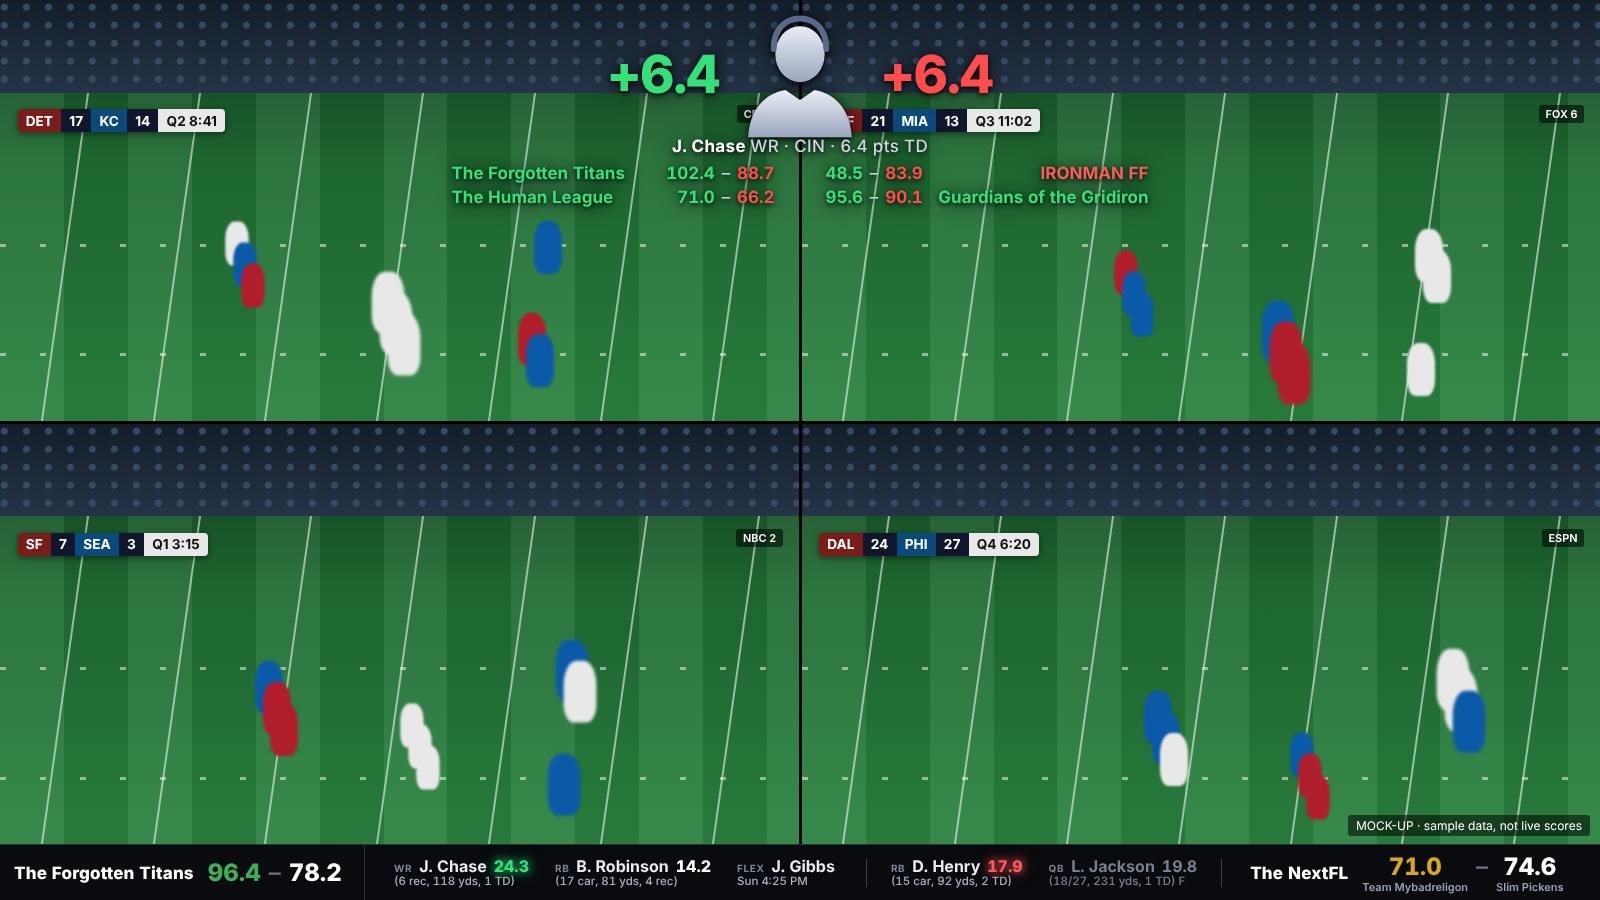
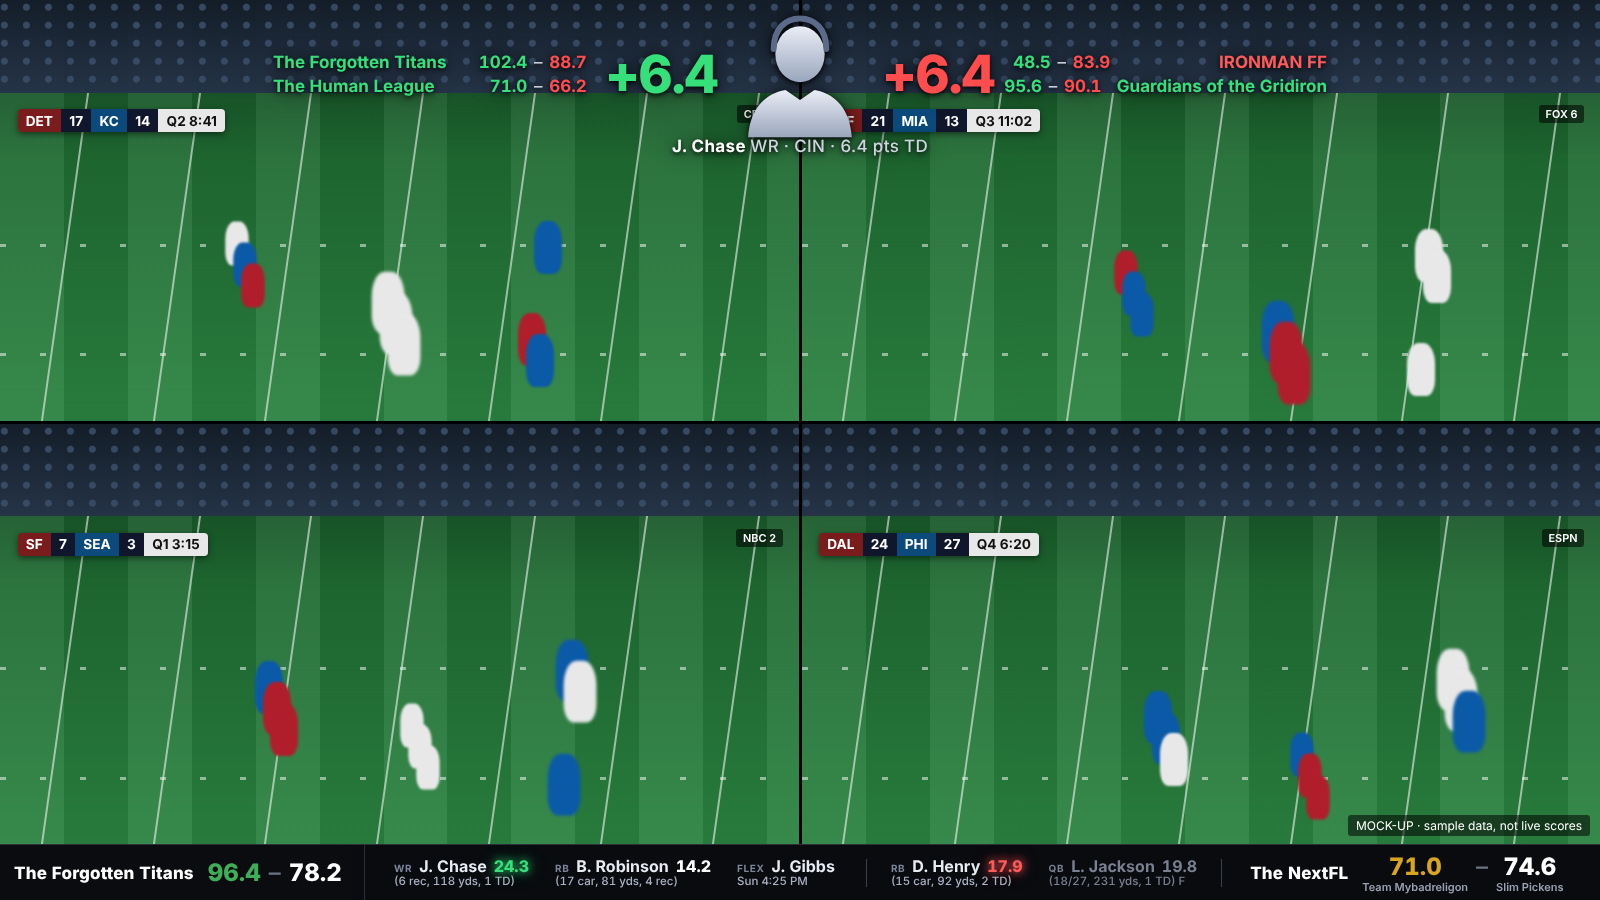
docs: pop-up league rows inline beside the headshot [skip ci]
Claude-Session: https://claude.ai/code/session_01Lsah77R46uPbi1vGqn8c5Q

Changed region(s): [[0.2812, 0.1867, 0.7188, 0.2489], [0.5625, 0.0622, 0.8438, 0.1244], [0.1562, 0.0622, 0.4375, 0.1244]]

diff --git a/docs/img/fantasy-ticker-mock.html b/docs/img/fantasy-ticker-mock.html
@@ -43,16 +43,17 @@ html,body{width:1600px;height:900px;background:#000;overflow:hidden;font-family:
 .nxt .sdn{font-size:24px;font-weight:800}.nxt .d{font-size:24px;color:#6b7385;font-weight:500}
 .fade{position:absolute;right:0;top:0;bottom:0;width:0}
 /* popup: no background, no outline - only a soft shadow so it stays readable on bright video */
-#pop{position:absolute;top:10px;left:50%;transform:translateX(-50%) scale(var(--ps,1));transform-origin:top center;width:820px;display:flex;flex-direction:column;align-items:center;
+#pop{position:absolute;top:10px;left:50%;transform:translateX(-50%) scale(var(--ps,1));transform-origin:top center;width:1240px;display:flex;flex-direction:column;align-items:center;
   filter:drop-shadow(0 2px 3px rgba(0,0,0,.85)) drop-shadow(0 0 10px rgba(0,0,0,.55))}
-#pop .top{display:flex;align-items:center;justify-content:center;gap:20px;width:100%}
-#pop .side{flex:1;font-size:62px;font-weight:800;letter-spacing:-.02em;font-variant-numeric:tabular-nums}
+#pop .top{display:flex;align-items:center;justify-content:center;gap:22px;width:100%}
+#pop .col{flex:1;min-width:0}
+#pop .side{flex:none;font-size:62px;font-weight:800;letter-spacing:-.02em;font-variant-numeric:tabular-nums}
 #pop .side.l{text-align:right;color:#35e07a}#pop .side.r{text-align:left;color:#ff4d4d}
 #pop .ph{width:150px;height:150px;flex:none}
 #pop .nm{margin-top:-2px;font-size:20px;font-weight:700;letter-spacing:.02em}#pop .nm span{color:#cfd4e0;font-weight:500}
 #pop .rows{margin-top:8px;width:100%;display:grid;grid-template-columns:1fr 1fr;column-gap:60px}
 .n-g{color:#35e07a}.n-a{color:#ffc447}.n-r{color:#ff5a5a}
-#pop .col{display:flex;flex-direction:column;gap:4px}
+#pop .col{display:flex;flex-direction:column;gap:4px;font-size:20px}
 #pop .rw{display:flex;align-items:baseline;gap:18px;font-size:20px;font-weight:700;font-variant-numeric:tabular-nums}
 #pop .col.l .rw{flex-direction:row}#pop .col.r .rw{flex-direction:row-reverse}
 #pop .rw .lg{flex:1;white-space:nowrap}#pop .col.l .lg{text-align:left}#pop .col.r .lg{text-align:right}
@@ -98,7 +99,6 @@ const R=[['n-r','IRONMAN FF','48.5','83.9'],['n-g','Guardians of the Gridiron','
 const rw=r=>`<div class="rw"><span class="lg ${r[0]}">${r[1]}</span><span class="tt"><span class="a">${r[2]}</span><span class="d">–</span><span class="b">${r[3]}</span></span></div>`;
 const SIL=`<svg class="ph" viewBox="0 0 150 150"><defs><linearGradient id="sg" x1="0" y1="0" x2="0" y2="1"><stop offset="0" stop-color="#e9edf5"/><stop offset="1" stop-color="#9aa6bd"/></linearGradient></defs>
 <ellipse cx="75" cy="52" rx="29" ry="33" fill="url(#sg)"/><path d="M14 150c2-34 20-52 44-56l17 12 17-12c24 4 42 22 44 56z" fill="url(#sg)"/><path d="M44 46c0-24 14-36 31-36s31 12 31 36" fill="none" stroke="#5c6a8a" stroke-width="7" stroke-linecap="round"/></svg>`;
-document.getElementById('pop').innerHTML=`<div class="top"><div class="side l">+6.4</div>${SIL}<div class="side r">+6.4</div></div>
-<div class="nm">J. Chase <span>WR · CIN · 6.4 pts TD</span></div>
-<div class="rows"><div class="col l">${L.map(rw).join('')}</div><div class="col r">${R.map(rw).join('')}</div></div>`;
+document.getElementById('pop').innerHTML=`<div class="top"><div class="col l">${L.map(rw).join('')}</div><div class="side l">+6.4</div>${SIL}<div class="side r">+6.4</div><div class="col r">${R.map(rw).join('')}</div></div>
+<div class="nm">J. Chase <span>WR · CIN · 6.4 pts TD</span></div>`;
 </script></body></html>

diff --git a/docs/fantasy-ticker-scope.md b/docs/fantasy-ticker-scope.md
@@ -74,4 +74,4 @@ Release plan: 0.10.0 = connection + ticker (minor), 0.11.0 = pop-ups (minor). No
 - **Needs from Fantasy Manager** (added to the handoff): roster slot and order, team names, kickoff time, game state, per-player counting-stat line, and per-player points. Display tracking of "last seen score" lives in the page, per device.
 - **Build impact:** the ticker becomes a pinned-header marquee with per-item state (more work than a plain scroll; roughly the size of the pop-up work). Mock-ups in docs/img/ updated 2026-11-08 to this design.
 - Still open: league-name colour (assumed neutral now), the colour rule, address and token. Fantasy Manager's API doc from James is awaited.
-- **Pop-up league rows revised 2026-11-08:** league names sit on the outside of the +points numbers, and each league is listed on the side the player plays for: leagues where I own him on the left (under the green +points, name at the outer left edge, "my total - opponent total" toward the centre), leagues where my opponent owns him on the right (under the red +points, name at the outer right edge). A player who is mine in some leagues and an opponent's in others shows both columns.
+- **Pop-up league rows revised again 2026-11-08 (supersedes the line below): the league rows sit inline either side of the +points numbers and headshot (no extra height under the headshot), league name outermost, totals toward the centre. Earlier wording:** league names sit on the outside of the +points numbers, and each league is listed on the side the player plays for: leagues where I own him on the left (under the green +points, name at the outer left edge, "my total - opponent total" toward the centre), leagues where my opponent owns him on the right (under the red +points, name at the outer right edge). A player who is mine in some leagues and an opponent's in others shows both columns.
